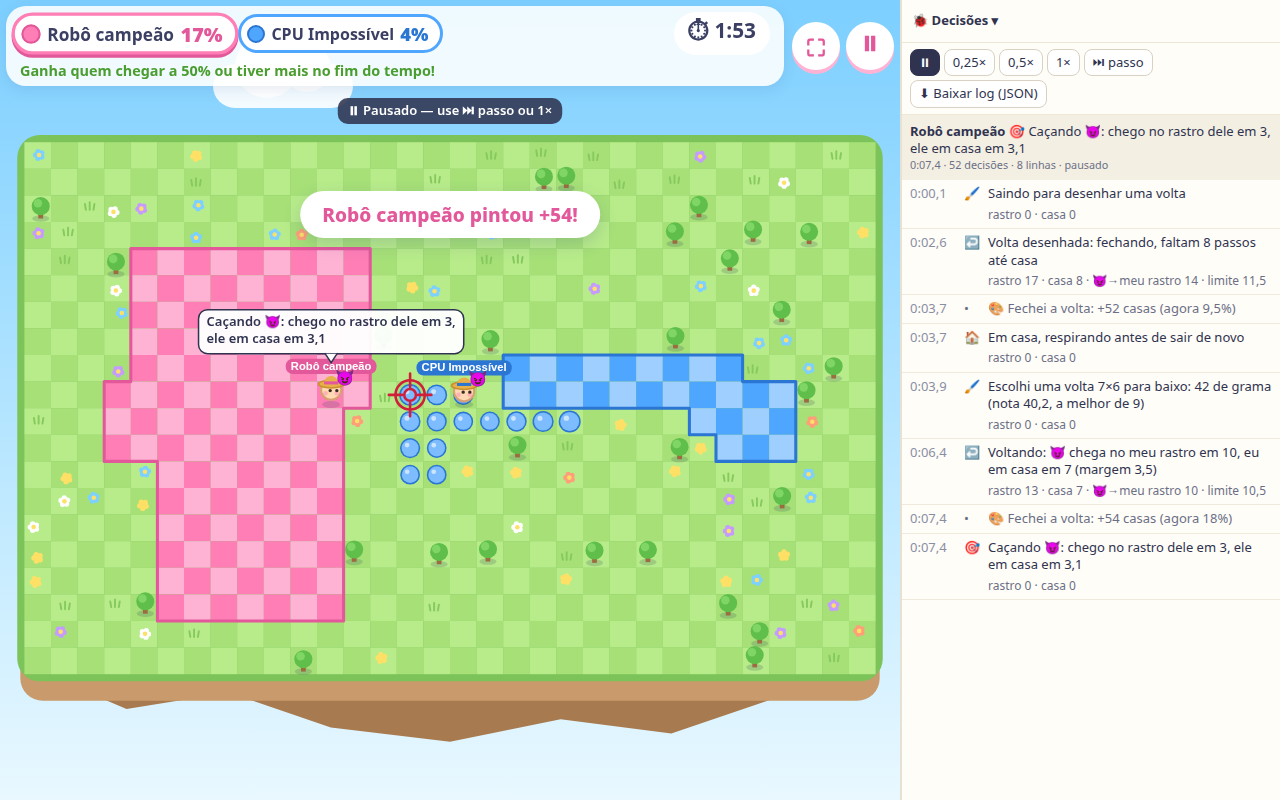
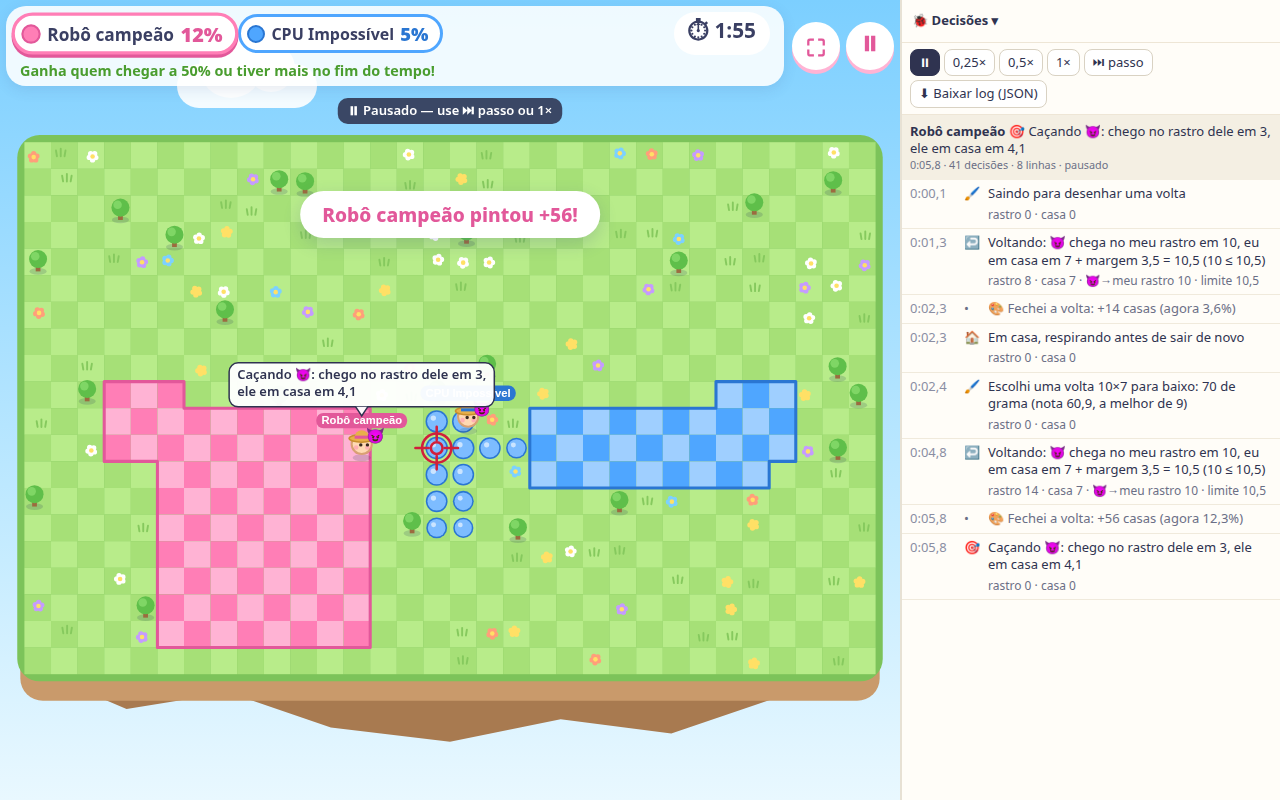
Depuração: frase da fuga com a conta da margem; README e RELATORIO (como usar e formato do JSON); fotos de tela

diff --git a/tests/genetico/depuracao.js b/tests/genetico/depuracao.js
@@ -191,7 +191,7 @@
           a = maisRapido(n.adversarios);
           if (!a) return 'Voltando: alguém alcançaria meu rastro antes de eu chegar em casa';
           return 'Voltando: ' + a.apelido + ' chega no meu rastro em ' + num(a.passos) + ', eu em casa em ' + num(n.casa) +
-            ' (margem ' + num(n.folga, 1) + ')';
+            (n.folga ? ' + margem ' + num(n.folga, 1) + ' = ' + num(n.casa + n.folga, 1) : '') + ' (' + num(a.passos) + ' ≤ ' + num(n.casa + n.folga, 1) + ')';
         }
         case 'corte': {
           var c = m.corte, alvo = porId(c.alvo);

diff --git a/tests/genetico/RELATORIO.md b/tests/genetico/RELATORIO.md
@@ -153,6 +153,126 @@ Abra o jogo com `?robo=campeao` (vale também no site publicado):
 `game.js`, que só carregam `tests/genetico/assistir.js` quando a URL tem
 `?robo=`. Sem esse parâmetro, o jogo é exatamente o de antes.
 
+## Modo depuração: o que o robô decidiu e por quê
+
+Abra o jogo com `&debug=1` (também vale no site publicado):
+
+- `index.html?robo=campeao&debug=1`: robô campeão (1x1) contra o Impossível;
+- `index.html?robo=campeao&cenario=3j&debug=1` (ou `4j`);
+- `index.html?debug=1`: jogo normal pelo menu, mostrando as decisões da CPU
+  Impossível (ou da primeira CPU; `&quem=3` escolhe o jogador 3).
+
+Sem `debug=1` nada disso é carregado e o jogo é exatamente o de sempre.
+
+**No mapa:**
+- **retângulo tracejado**: a volta planejada;
+- **pontilhado até a 🏠**: o caminho de volta para casa (sem pisar no próprio
+  rastro);
+- **mira vermelha**: o ponto onde vai cortar alguém, quando está caçando;
+- **👁**: onde fica de vigia;
+- **área avermelhada**: até onde os adversários chegam antes de o robô
+  conseguir voltar para casa (passos até casa + margem). Se o rastro dele
+  estiver dentro dela, ele volta.
+
+Um **balão** em cima do robô mostra a decisão de agora, com os números do
+momento, por exemplo "Voltando: 😈 chega no meu rastro em 6, eu em casa em 3".
+
+**Painel de decisões** (à direita; no celular fica embaixo e começa
+recolhido; toque em "🐞 Decisões" para abrir):
+- uma linha por **mudança** de decisão ou por evento (pintou, cortou, foi
+  cortado), com o tempo da partida, a frase e os números (rastro, passos até
+  casa, passos de cada adversário até o meu rastro e o limite);
+- ao tocar numa linha, ela abre o placar daquela hora, a tabela "adversário ×
+  passos até meu rastro" e, se a linha for a escolha de uma volta, o
+  **ranking das voltas comparadas** com a nota e os componentes de cada uma
+  (grama, roubo de quem, borda, risco). O mapa mostra a **foto** daquele
+  momento com os desenhos da hora; "▶ Ao vivo" volta;
+- controles: ⏸, 0,25×, 0,5×, 1× e **⏭ passo** (avança até a próxima
+  decisão, uma célula). No teclado, `.` faz o mesmo;
+- **⬇ Baixar log (JSON)**: salva o log da partida.
+
+![Fuga por perigo](../../docs/screenshots/debug-balao-perigo.png)
+![Ranking das voltas e foto do momento](../../docs/screenshots/debug-painel-ranking.png)
+
+Mais fotos de tela: `docs/screenshots/debug-volta.png`, `debug-cacada.png`,
+`debug-celular.png` e `debug-celular-recolhido.png`.
+
+**Sem navegador** (mesmo JSON):
+
+```sh
+node tests/genetico/registrar.js --log partida.json --texto          # robô campeão 1x1, semente 9000000
+node tests/genetico/registrar.js --log p.json --cenario 3j --semente 9000005
+node tests/genetico/registrar.js --texto --robo esperto --sujeito 2  # decisões do Impossível
+```
+
+Linhas reais (robô campeão 1x1, semente 9000000):
+
+```
+0:00,0  Escolhi uma volta 7×10 para a direita: 70 de grama (nota 60,9, a melhor de 9)
+0:01,1  Voltando: 😈 chega no meu rastro em 10, eu em casa em 8 + margem 3,5 = 11,5 (10 ≤ 11,5)
+0:02,2  🎨 Fechei a volta: +14 casas (agora 3,6%)
+0:04,8  Caçando 😈: chego no rastro dele em 5, ele em casa em 8
+0:05,5  ✂ Cortei o rastro de 😈
+0:05,5  Cortei! Descanso 2,5 s antes de caçar de novo
+0:09,3  Escolhi uma volta 10×6 para baixo: 50 de grama + 10 de 😈, com adversário perto (nota 51,1, a melhor de 9)
+0:17,8  Caçando 😈: chego no caminho de volta dele em 2, ele em casa em 2,9
+0:18,0  Parei de caçar: não chego a tempo em ninguém
+```
+
+E do Impossível (`--sujeito 2`): "De olho no caminho de volta de Robô (estou a
+24 passos)".
+
+### Formato do JSON
+
+```js
+{
+  formato: 'ilhas-de-tinta/depuracao', versao: 1,
+  sujeito: { id, nome, tipo, dificuldade },   // de quem é o log
+  parametros: { ... },                         // genes decodificados (robô) ou nível (CPU)
+  mapa: { colunas, linhas },
+  jogadores: [{ id, nome, tipo, dificuldade, cor, velocidade }],
+  decisoes: 638,                               // vezes que o cérebro decidiu (uma por célula)
+  cenario, semente, robo, resultado,           // só no Node (registrar.js); no navegador: url
+  entradas: [
+    { n, t,                                    // nº da linha e segundos de partida
+      tipo: 'decisao',
+      modo: 'casa' | 'sair' | 'voltar' | 'cacar' | 'vigiar',
+      motivo: 'volta' | 'semVolta' | 'espera' | 'rastroMax' | 'medo' | 'fimDaVolta' | 'perigo'
+            | 'corte' | 'vigia' | 'respiro' | 'fimCaca' | 'caca' | 'inalcancavel' | 'reinicio' | 'inicio',
+      frase: 'Voltando: 😈 chega no meu rastro em 10, …',
+      numeros: { rastro, casa,                 // tamanho do rastro; passos até casa
+                 folga, limite,                // margem; (casa + margem) / velocidade
+                 adversarios: [{ id, nome, apelido, passos, tempo }] },  // até o MEU rastro
+      detalhe: { tipo, … },                    // o motivo cru do ai.js. Ex.: perigo → detalhe.adversarios[].alcanca;
+                                               // corte → corte: { x, y, passos, alvo, tempoDele, onde: 'rastro'|'caminho' }
+      direcao: 'cima', posicao: [x, y],
+      placar: [{ nome, pct }],
+      candidatos: [                            // só quando escolheu uma volta (motivo 'volta')
+        { posicao: 1, escolhida: true, nota: 60.85, direcao: 'direita', lado: 'cima',
+          largura: 7, altura: 10, retangulo: { x0, y0, x1, y1 }, area: 70,
+          grama: 70, roubo: [{ de: '😈', casas: 12 }], borda: -9.15,
+          antesDoRisco: 60.85, risco: false, adversarioMaisPerto: 22, raioDeRisco: 11.31, fatorRisco: 1 } ],
+      foto: { donos: '000…', rastros: '000…',  // um dígito (0–4) por célula, linha a linha
+              jogadores: [{ id, x, y }],
+              desenhos: { plano: { x0, y0, x1, y1, pontos }, caminhoCasa: [[x, y], …],
+                          mira: [x, y], vigia: [x, y], perigo: [índice, …] } } },
+    { n, t, tipo: 'evento', evento: 'pintou' | 'cortei' | 'cortado' | 'proprio', frase, placar, foto }
+  ]
+}
+```
+
+`registrar.js --sem-fotos` tira as fotos (o log de uma partida cai de ~700 KB para ~260 KB).
+
+**Garantia de que não muda o jogo:** o registro só lê o estado do jogo. Ele
+não sorteia nem mexe no mapa. Os trechos novos do `ai.js` só guardam o motivo
+e os componentes das notas. `node tests/genetico/teste_depuracao.js` joga 36
+partidas (robô campeão, robô esperto e o Impossível como sujeito, em 1x1, 3j e
+4j) com e sem registro, e o mapa final sai idêntico em todas; o teste também
+exige no log uma fuga por perigo, uma caçada e a escolha de uma volta.
+`python3 tests/genetico/teste_depuracao_tela.py http://localhost:8000/ --fotos`
+confere o modo na tela (sem `debug` nada aparece; pausa; passo = uma decisão;
+ranking; foto; 3j; só `?debug=1`; celular) e refaz as fotos de tela.
+
 ## Como funciona
 
 - **Simulador** (`simulador.js`): carrega os arquivos reais `config.js`,

diff --git a/README.md b/README.md
@@ -393,6 +393,8 @@ tests/captura.html    testes da captura de área (abra no navegador)
 tests/simulacao.html  partidas automáticas com CPUs + teste dos controles
 tests/online.html     teste online de ponta a ponta (2 ou 4 janelas, Supabase real)
 tests/celular/        testes com toque de verdade e celular x desktop (Python + Chrome)
+tests/genetico/       teste oculto: robô treinado por algoritmo genético × Impossível,
+                      e o modo depuração (?robo=campeao&debug=1) — veja RELATORIO.md
 docs/screenshots/     capturas de tela
 ```
 
@@ -447,6 +449,14 @@ rastro (`Grade.capturar(N)` em `js/grid.js`):
   `google-chrome`; veja `tests/celular/LEIAME.md`.
 
 A página fica verde quando tudo passa.
+
+**Teste oculto: o Impossível é vencível? E o que o robô pensa?** Em
+`tests/genetico/` há um robô treinado por algoritmo genético. Para assisti-lo:
+`index.html?robo=campeao`. Com `&debug=1`, aparecem as decisões dele (balão,
+desenhos no mapa, painel com o log e o ranking das voltas, pausa/passo e
+"Baixar log (JSON)"). Só `?debug=1` mostra as decisões da CPU Impossível numa
+partida normal. Nada disso aparece no menu. Números, como rodar e o formato do
+log estão em [`tests/genetico/RELATORIO.md`](tests/genetico/RELATORIO.md).
 
 ### Ajustes rápidos
 
